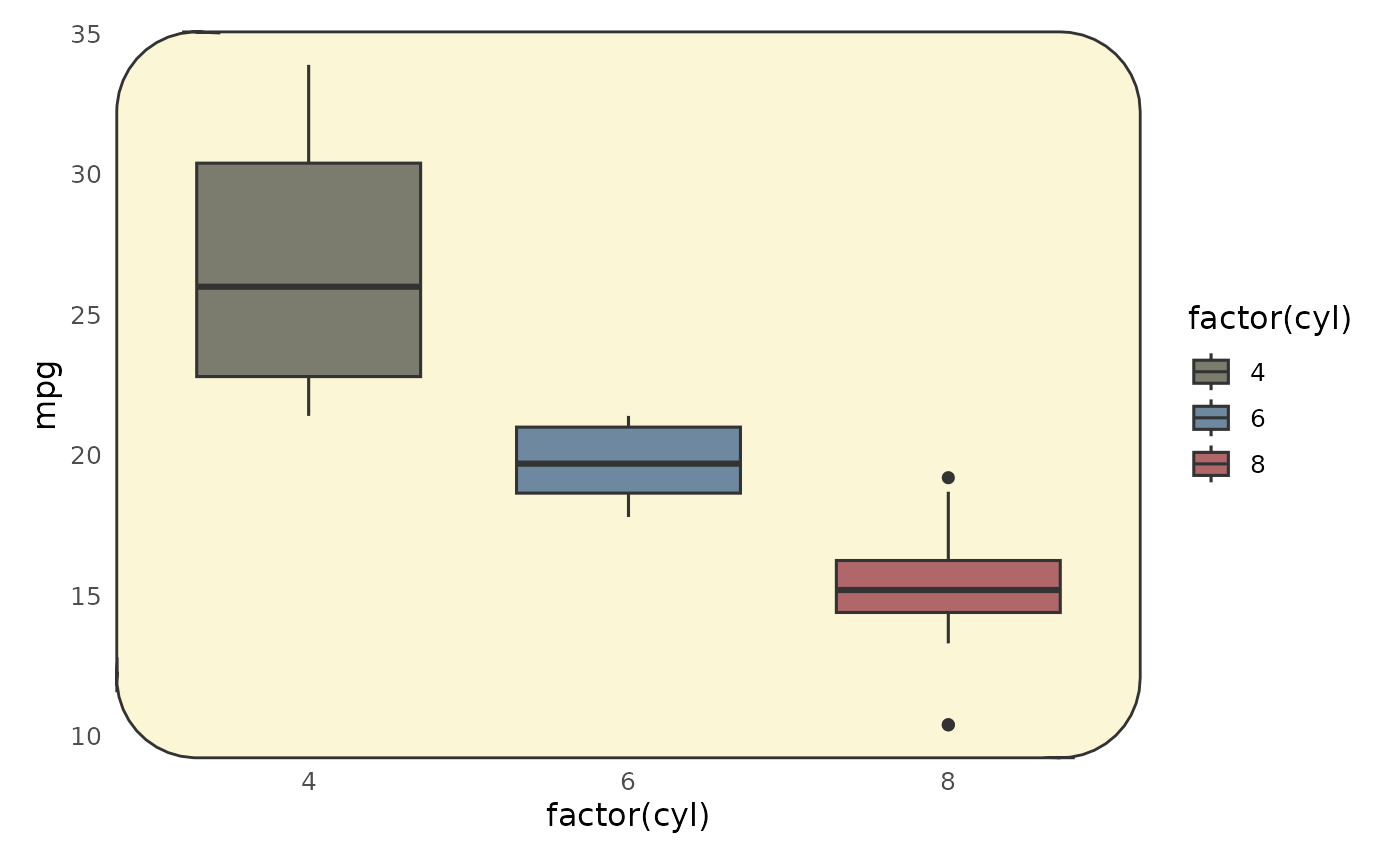
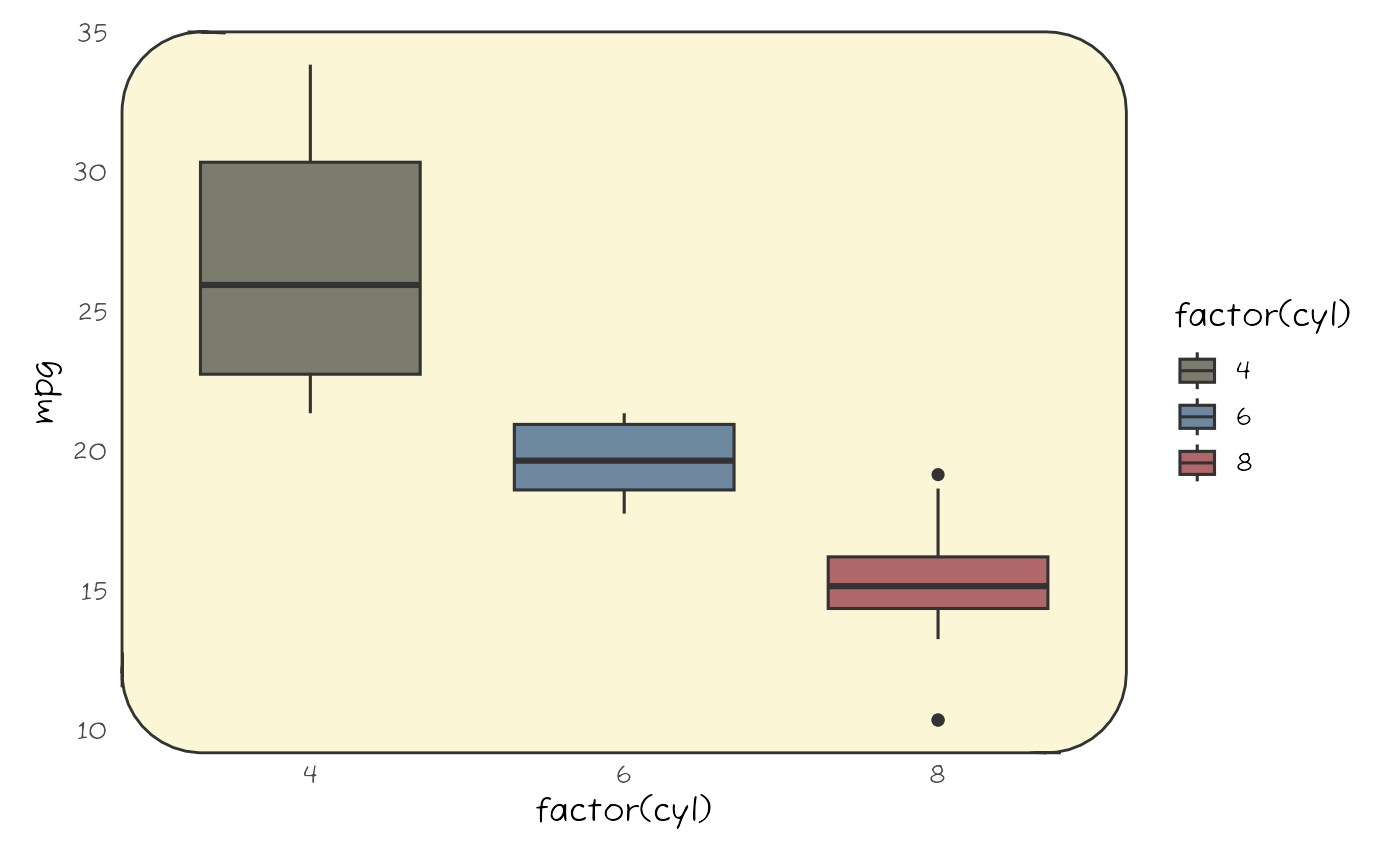
Deploying to gh-pages from @ matiasandina/jonohey@7108d242532797d898b5e22b1b549c40cae4f149 🚀

diff --git a/reference/jonohey_save_png.html b/reference/jonohey_save_png.html
@@ -1,0 +1,80 @@
+<!DOCTYPE html>
+<!-- Generated by pkgdown: do not edit by hand --><html lang="en"><head><meta http-equiv="Content-Type" content="text/html; charset=UTF-8"><meta charset="utf-8"><meta http-equiv="X-UA-Compatible" content="IE=edge"><meta name="viewport" content="width=device-width, initial-scale=1, shrink-to-fit=no"><title>Save a PNG with ragg and transparent device bg — jonohey_save_png • jonohey</title><script src="../deps/jquery-3.6.0/jquery-3.6.0.min.js"></script><meta name="viewport" content="width=device-width, initial-scale=1, shrink-to-fit=no"><link href="../deps/bootstrap-5.3.1/bootstrap.min.css" rel="stylesheet"><script src="../deps/bootstrap-5.3.1/bootstrap.bundle.min.js"></script><link href="../deps/font-awesome-6.5.2/css/all.min.css" rel="stylesheet"><link href="../deps/font-awesome-6.5.2/css/v4-shims.min.css" rel="stylesheet"><script src="../deps/headroom-0.11.0/headroom.min.js"></script><script src="../deps/headroom-0.11.0/jQuery.headroom.min.js"></script><script src="../deps/bootstrap-toc-1.0.1/bootstrap-toc.min.js"></script><script src="../deps/clipboard.js-2.0.11/clipboard.min.js"></script><script src="../deps/search-1.0.0/autocomplete.jquery.min.js"></script><script src="../deps/search-1.0.0/fuse.min.js"></script><script src="../deps/search-1.0.0/mark.min.js"></script><!-- pkgdown --><script src="../pkgdown.js"></script><meta property="og:title" content="Save a PNG with ragg and transparent device bg — jonohey_save_png"><meta name="description" content="Save a PNG with ragg and transparent device bg"><meta property="og:description" content="Save a PNG with ragg and transparent device bg"></head><body>
+    <a href="#main" class="visually-hidden-focusable">Skip to contents</a>
+
+
+    <nav class="navbar navbar-expand-lg fixed-top bg-light" data-bs-theme="light" aria-label="Site navigation"><div class="container">
+
+    <a class="navbar-brand me-2" href="../index.html">jonohey</a>
+
+    <small class="nav-text text-muted me-auto" data-bs-toggle="tooltip" data-bs-placement="bottom" title="">0.0.0.9000</small>
+
+
+    <button class="navbar-toggler" type="button" data-bs-toggle="collapse" data-bs-target="#navbar" aria-controls="navbar" aria-expanded="false" aria-label="Toggle navigation">
+      <span class="navbar-toggler-icon"></span>
+    </button>
+
+    <div id="navbar" class="collapse navbar-collapse ms-3">
+      <ul class="navbar-nav me-auto"><li class="active nav-item"><a class="nav-link" href="../reference/index.html">Reference</a></li>
+<li class="nav-item"><a class="nav-link" href="../articles/index.html">Articles</a></li>
+      </ul><ul class="navbar-nav"><li class="nav-item"><form class="form-inline" role="search">
+ <input class="form-control" type="search" name="search-input" id="search-input" autocomplete="off" aria-label="Search site" placeholder="Search for" data-search-index="../search.json"></form></li>
+      </ul></div>
+
+
+  </div>
+</nav><div class="container template-reference-topic">
+<div class="row">
+  <main id="main" class="col-md-9"><div class="page-header">
+
+      <h1>Save a PNG with ragg and transparent device bg</h1>
+
+      <div class="d-none name"><code>jonohey_save_png.Rd</code></div>
+    </div>
+
+    <div class="ref-description section level2">
+    <p>Save a PNG with ragg and transparent device bg</p>
+    </div>
+
+    <div class="section level2">
+    <h2 id="ref-usage">Usage<a class="anchor" aria-label="anchor" href="#ref-usage"></a></h2>
+    <div class="sourceCode"><pre class="sourceCode r"><code><span><span class="fu">jonohey_save_png</span><span class="op">(</span><span class="va">filename</span>, <span class="va">plot</span>, <span class="va">...</span><span class="op">)</span></span></code></pre></div>
+    </div>
+
+    <div class="section level2">
+    <h2 id="arguments">Arguments<a class="anchor" aria-label="anchor" href="#arguments"></a></h2>
+
+
+<dl><dt id="arg-filename">filename<a class="anchor" aria-label="anchor" href="#arg-filename"></a></dt>
+<dd><p>output filename</p></dd>
+
+
+<dt id="arg-plot">plot<a class="anchor" aria-label="anchor" href="#arg-plot"></a></dt>
+<dd><p>ggplot object to export with transparent bg</p></dd>
+
+
+<dt id="arg--">...<a class="anchor" aria-label="anchor" href="#arg--"></a></dt>
+<dd><p>passed to ggplot2::ggsave()</p></dd>
+
+</dl></div>
+
+  </main><aside class="col-md-3"><nav id="toc" aria-label="Table of contents"><h2>On this page</h2>
+    </nav></aside></div>
+
+
+    <footer><div class="pkgdown-footer-left">
+  <p>Developed by Matias Andina.</p>
+</div>
+
+<div class="pkgdown-footer-right">
+  <p>Site built with <a href="https://pkgdown.r-lib.org/" class="external-link">pkgdown</a> 2.1.3.</p>
+</div>
+
+    </footer></div>
+
+
+
+
+
+  </body></html>
+

diff --git a/reference/jonohey_use_ragg.html b/reference/jonohey_use_ragg.html
@@ -1,0 +1,78 @@
+<!DOCTYPE html>
+<!-- Generated by pkgdown: do not edit by hand --><html lang="en"><head><meta http-equiv="Content-Type" content="text/html; charset=UTF-8"><meta charset="utf-8"><meta http-equiv="X-UA-Compatible" content="IE=edge"><meta name="viewport" content="width=device-width, initial-scale=1, shrink-to-fit=no"><title>Prefer ragg in the IDE plot pane or fall back to a ragg PNG device — jonohey_use_ragg • jonohey</title><script src="../deps/jquery-3.6.0/jquery-3.6.0.min.js"></script><meta name="viewport" content="width=device-width, initial-scale=1, shrink-to-fit=no"><link href="../deps/bootstrap-5.3.1/bootstrap.min.css" rel="stylesheet"><script src="../deps/bootstrap-5.3.1/bootstrap.bundle.min.js"></script><link href="../deps/font-awesome-6.5.2/css/all.min.css" rel="stylesheet"><link href="../deps/font-awesome-6.5.2/css/v4-shims.min.css" rel="stylesheet"><script src="../deps/headroom-0.11.0/headroom.min.js"></script><script src="../deps/headroom-0.11.0/jQuery.headroom.min.js"></script><script src="../deps/bootstrap-toc-1.0.1/bootstrap-toc.min.js"></script><script src="../deps/clipboard.js-2.0.11/clipboard.min.js"></script><script src="../deps/search-1.0.0/autocomplete.jquery.min.js"></script><script src="../deps/search-1.0.0/fuse.min.js"></script><script src="../deps/search-1.0.0/mark.min.js"></script><!-- pkgdown --><script src="../pkgdown.js"></script><meta property="og:title" content="Prefer ragg in the IDE plot pane or fall back to a ragg PNG device — jonohey_use_ragg"><meta name="description" content="
+
+In RStudio/Posit: switches the plot pane backend to ragg and closes the
+current pane device so the next plot uses ragg immediately.
+Elsewhere: sets the default graphics device to ragg::agg_png for this session.
+
+"><meta property="og:description" content="
+
+In RStudio/Posit: switches the plot pane backend to ragg and closes the
+current pane device so the next plot uses ragg immediately.
+Elsewhere: sets the default graphics device to ragg::agg_png for this session.
+
+"></head><body>
+    <a href="#main" class="visually-hidden-focusable">Skip to contents</a>
+
+
+    <nav class="navbar navbar-expand-lg fixed-top bg-light" data-bs-theme="light" aria-label="Site navigation"><div class="container">
+
+    <a class="navbar-brand me-2" href="../index.html">jonohey</a>
+
+    <small class="nav-text text-muted me-auto" data-bs-toggle="tooltip" data-bs-placement="bottom" title="">0.0.0.9000</small>
+
+
+    <button class="navbar-toggler" type="button" data-bs-toggle="collapse" data-bs-target="#navbar" aria-controls="navbar" aria-expanded="false" aria-label="Toggle navigation">
+      <span class="navbar-toggler-icon"></span>
+    </button>
+
+    <div id="navbar" class="collapse navbar-collapse ms-3">
+      <ul class="navbar-nav me-auto"><li class="active nav-item"><a class="nav-link" href="../reference/index.html">Reference</a></li>
+<li class="nav-item"><a class="nav-link" href="../articles/index.html">Articles</a></li>
+      </ul><ul class="navbar-nav"><li class="nav-item"><form class="form-inline" role="search">
+ <input class="form-control" type="search" name="search-input" id="search-input" autocomplete="off" aria-label="Search site" placeholder="Search for" data-search-index="../search.json"></form></li>
+      </ul></div>
+
+
+  </div>
+</nav><div class="container template-reference-topic">
+<div class="row">
+  <main id="main" class="col-md-9"><div class="page-header">
+
+      <h1>Prefer ragg in the IDE plot pane or fall back to a ragg PNG device</h1>
+
+      <div class="d-none name"><code>jonohey_use_ragg.Rd</code></div>
+    </div>
+
+    <div class="ref-description section level2">
+
+<ul><li><p>In RStudio/Posit: switches the plot pane backend to ragg and closes the
+current pane device so the next plot uses ragg immediately.</p></li>
+<li><p>Elsewhere: sets the default graphics device to ragg::agg_png for this session.</p></li>
+</ul></div>
+
+    <div class="section level2">
+    <h2 id="ref-usage">Usage<a class="anchor" aria-label="anchor" href="#ref-usage"></a></h2>
+    <div class="sourceCode"><pre class="sourceCode r"><code><span><span class="fu">jonohey_use_ragg</span><span class="op">(</span><span class="op">)</span></span></code></pre></div>
+    </div>
+
+
+  </main></div>
+
+
+    <footer><div class="pkgdown-footer-left">
+  <p>Developed by Matias Andina.</p>
+</div>
+
+<div class="pkgdown-footer-right">
+  <p>Site built with <a href="https://pkgdown.r-lib.org/" class="external-link">pkgdown</a> 2.1.3.</p>
+</div>
+
+    </footer></div>
+
+
+
+
+
+  </body></html>
+

diff --git a/reference/theme_axes_wiggle.html b/reference/theme_axes_wiggle.html
@@ -42,13 +42,13 @@ No grid, no ticks. Rounded panel optional (same args as round theme).</p>
     <div class="section level2">
     <h2 id="ref-usage">Usage<a class="anchor" aria-label="anchor" href="#ref-usage"></a></h2>
     <div class="sourceCode"><pre class="sourceCode r"><code><span><span class="fu">theme_axes_wiggle</span><span class="op">(</span></span>
-<span>  base_size <span class="op">=</span> <span class="fl">16</span>,</span>
-<span>  base_family <span class="op">=</span> <span class="st">""</span>,</span>
-<span>  radius <span class="op">=</span> <span class="fl">20</span>,</span>
-<span>  border_colour <span class="op">=</span> <span class="st">"grey20"</span>,</span>
-<span>  border_linewidth <span class="op">=</span> <span class="fl">1</span>,</span>
+<span>  base_size <span class="op">=</span> <span class="fl">12</span>,</span>
+<span>  base_family <span class="op">=</span> <span class="st">"Fuzzy Bubbles"</span>,</span>
 <span>  amount <span class="op">=</span> <span class="fl">3</span>,</span>
-<span>  wiggle_n <span class="op">=</span> <span class="fl">100</span></span>
+<span>  wiggle_n <span class="op">=</span> <span class="fl">100</span>,</span>
+<span>  linewidth <span class="op">=</span> <span class="fl">1</span>,</span>
+<span>  line_color <span class="op">=</span> <span class="st">"gray20"</span>,</span>
+<span>  <span class="va">...</span></span>
 <span><span class="op">)</span></span></code></pre></div>
     </div>
 
@@ -64,24 +64,24 @@ No grid, no ticks. Rounded panel optional (same args as round theme).</p>
 <dd><p>base font family</p></dd>
 
 
-<dt id="arg-radius">radius<a class="anchor" aria-label="anchor" href="#arg-radius"></a></dt>
-<dd><p>corner radius in points for panel (if elementalist available)</p></dd>
-
-
-<dt id="arg-border-colour">border_colour<a class="anchor" aria-label="anchor" href="#arg-border-colour"></a></dt>
-<dd><p>panel border colour</p></dd>
-
-
-<dt id="arg-border-linewidth">border_linewidth<a class="anchor" aria-label="anchor" href="#arg-border-linewidth"></a></dt>
-<dd><p>panel border linewidth</p></dd>
-
-
 <dt id="arg-amount">amount<a class="anchor" aria-label="anchor" href="#arg-amount"></a></dt>
 <dd><p>wiggle intensity (approx. pixels)</p></dd>
 
 
 <dt id="arg-wiggle-n">wiggle_n<a class="anchor" aria-label="anchor" href="#arg-wiggle-n"></a></dt>
 <dd><p>number of control points for the wiggle</p></dd>
+
+
+<dt id="arg-linewidth">linewidth<a class="anchor" aria-label="anchor" href="#arg-linewidth"></a></dt>
+<dd><p>linewidth to be passed to axes</p></dd>
+
+
+<dt id="arg-line-color">line_color<a class="anchor" aria-label="anchor" href="#arg-line-color"></a></dt>
+<dd><p>color to be passed to axes</p></dd>
+
+
+<dt id="arg--">...<a class="anchor" aria-label="anchor" href="#arg--"></a></dt>
+<dd><p>passed to ggplot2 theme constructors</p></dd>
 
 </dl></div>
     <div class="section level2">

diff --git a/index.html b/index.html
@@ -83,6 +83,9 @@
 <code class="sourceCode R"><span><span class="co"># make a round panel!</span></span>
 <span><span class="fu">plot_box_mtcars</span><span class="op">(</span><span class="st">"suit"</span><span class="op">)</span> <span class="op">+</span> <span class="fu"><a href="reference/theme_card.html">theme_card</a></span><span class="op">(</span>radius_panel <span class="op">=</span> <span class="fl">18</span><span class="op">)</span></span></code></pre></div>
 <p><img src="reference/figures/README-sketch-1.png" width="100%" style="display: block; margin: auto;"></p>
+<blockquote>
+<p>Typography matches exactly in saved figures or Rmd configured with <code>dev = "ragg_png"</code>. For interactive plotting, <code>call jonohey_use_ragg()</code> or install Fuzzy Bubbles system-wide.</p>
+</blockquote>
 <div class="sourceCode" id="cb4"><pre class="downlit sourceCode r">
 <code class="sourceCode R"><span><span class="co"># Make it more cartoonish</span></span>
 <span><span class="fu">plot_box_mtcars</span><span class="op">(</span><span class="st">"suit"</span><span class="op">)</span> <span class="op">+</span> <span class="fu"><a href="reference/theme_axes_wiggle.html">theme_axes_wiggle</a></span><span class="op">(</span><span class="op">)</span></span></code></pre></div>
@@ -147,6 +150,13 @@
 <p><img src="reference/figures/surfing.png"></p>
 <hr>
 </div>
+</div>
+<div class="section level2">
+<h2 id="using-ragg-for-consistent-typography">Using ragg for consistent typography<a class="anchor" aria-label="anchor" href="#using-ragg-for-consistent-typography"></a>
+</h2>
+<p>Since we provide a custom font (“Fuzzy Bubbles”) to match a sketchy look, we recommend using the <code>ragg</code> graphics device for saving plots to ensure consistent typography. You can do this by calling <code><a href="reference/jonohey_use_ragg.html">jonohey_use_ragg()</a></code> once in your R session, or by specifying <code>dev = "ragg_png"</code> in your R Markdown document’s chunk options.</p>
+<p>In Rstudio, you can also set <code>ragg</code> as the default graphics device in the Global Options under the “General” section. Check the <a href="https://ragg.r-lib.org/index.html?q=rstu#use-ragg-in-rstudio" class="external-link">Ragg’s documentation</a> for more details.</p>
+<p>In Positron, it seems that <code>ragg</code> is used by default if ragg &gt;= 1.4 (see <a href="https://github.com/posit-dev/ark/pull/763" class="external-link">this PR</a>). That’s why we require ragg &gt;= 1.4 in the DESCRIPTION. We have tested <code><a href="reference/jonohey_use_ragg.html">jonohey_use_ragg()</a></code> and it seems to work, but the scaling is worse than in RStudio.</p>
 </div>
 <div class="section level2">
 <h2 id="issues">Issues<a class="anchor" aria-label="anchor" href="#issues"></a>

diff --git a/reference/theme_card.html b/reference/theme_card.html
@@ -46,8 +46,8 @@ with clipping disabled so stroke width looks even at large radii.</p>
 <span>  panel_fill <span class="op">=</span> <span class="cn">NULL</span>,</span>
 <span>  panel_border_colour <span class="op">=</span> <span class="st">"gray20"</span>,</span>
 <span>  panel_border_linewidth <span class="op">=</span> <span class="fl">0.5</span>,</span>
-<span>  base_size <span class="op">=</span> <span class="fl">20</span>,</span>
-<span>  base_family <span class="op">=</span> <span class="st">""</span>,</span>
+<span>  base_size <span class="op">=</span> <span class="fl">12</span>,</span>
+<span>  base_family <span class="op">=</span> <span class="st">"Fuzzy Bubbles"</span>,</span>
 <span>  round_plot <span class="op">=</span> <span class="cn">FALSE</span>,</span>
 <span>  radius_plot <span class="op">=</span> <span class="fl">30</span>,</span>
 <span>  plot_bg_fill <span class="op">=</span> <span class="cn">NULL</span>,</span>

diff --git a/reference/index.html b/reference/index.html
@@ -55,10 +55,22 @@
         <dd>List available palettes</dd>
       </dl><dl><dt>
 
+          <code><a href="jonohey_save_png.html">jonohey_save_png()</a></code>
+
+        </dt>
+        <dd>Save a PNG with ragg and transparent device bg</dd>
+      </dl><dl><dt>
+
           <code><a href="jonohey_show.html">jonohey_show()</a></code>
 
         </dt>
         <dd>Preview a palette</dd>
+      </dl><dl><dt>
+
+          <code><a href="jonohey_use_ragg.html">jonohey_use_ragg()</a></code>
+
+        </dt>
+        <dd>Prefer ragg in the IDE plot pane or fall back to a ragg PNG device</dd>
       </dl><dl><dt>
 
           <code><a href="scale_color_jonohey.html">scale_color_jonohey()</a></code>
